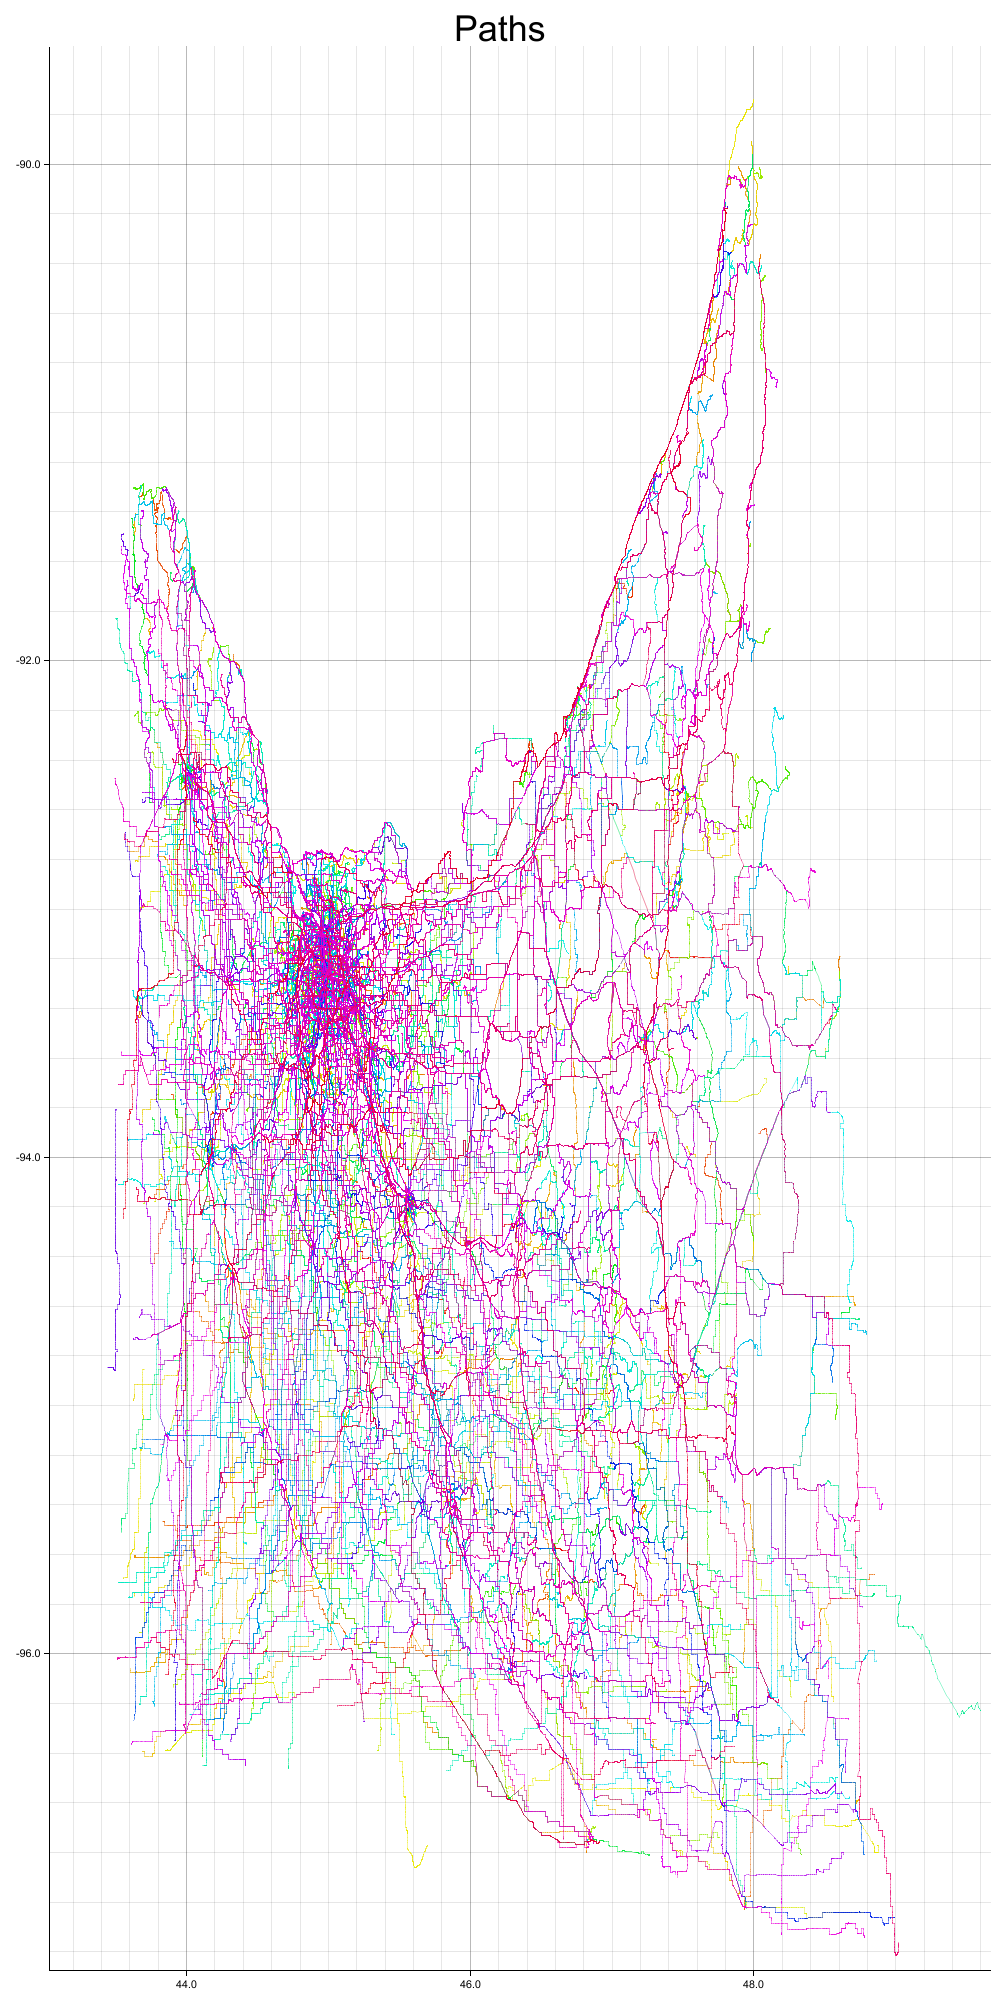
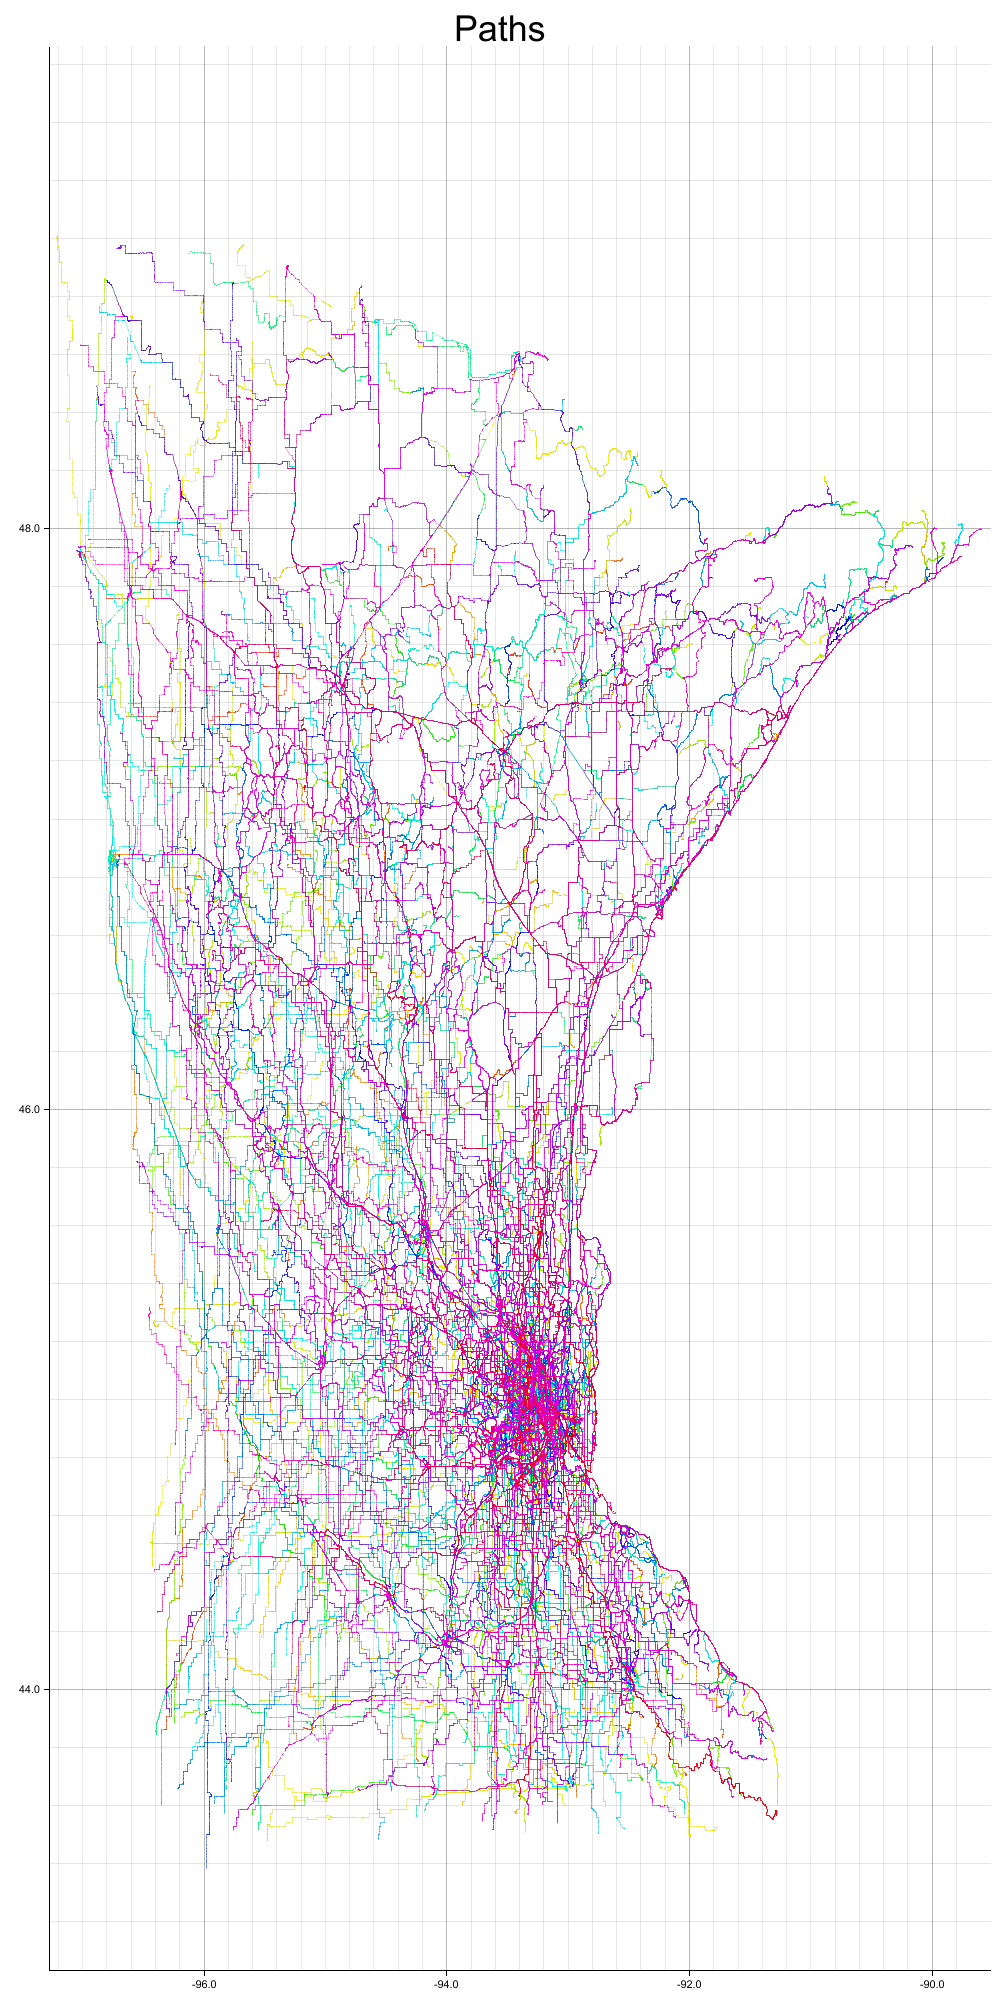
fix lat, lon inversion issue

diff --git a/src/main.rs b/src/main.rs
@@ -12,17 +12,18 @@ use crate::a_star::Path;
 use crate::bidirectional::bi_astar::a_star_bi;
 use crate::bounds::{Boundable, Bounds};
 use crate::osm_parser::OpenStreetMap;
-use crate::utils::parse_pre_generated;
 
 mod osm_parser;
 mod a_star;
 mod compact_array;
 mod bounds;
-mod utils;
 mod bidirectional;
 
 fn main() -> Result<(), Box<dyn std::error::Error>> {
-    let map = parse_pre_generated()?;
+    // let map = OpenStreetMap::parse("minnesota-latest.osm.pbf")?;
+    // let map = map.trim(); // to prevent unsolvable paths
+    // map.save("map.save")?;
+    let map = OpenStreetMap::read_custom_file("map.save")?;
 
     let repeat = 1000;
 
@@ -71,7 +72,9 @@ fn main() -> Result<(), Box<dyn std::error::Error>> {
 }
 
 fn draw(map: &OpenStreetMap, paths: &[Path]) -> Result<(), Box<dyn std::error::Error>> {
-    let Bounds { from, to } = map.get_bounds();
+    let bounds = map.get_bounds();
+    println!("bounds {:?}", bounds);
+    let Bounds { from, to } = bounds;
 
     let root = BitMapBackend::new("5.png", (1000, 2000)).into_drawing_area();
     root.fill(&WHITE)?;

diff --git a/src/osm_parser.rs b/src/osm_parser.rs
@@ -322,7 +322,7 @@ impl OpenStreetMap {
             } {
                 if valid.contains(&id) {
                     id_to_idx.insert(id, idx_to_node.len() as u32);
-                    let location = Location(lat, lon);
+                    let location = Location(lon, lat);
                     let to_insert = Node {
                         location,
                         connected: CompactVec::empty(),

diff --git a/src/bounds.rs b/src/bounds.rs
@@ -1,6 +1,7 @@
 use crate::osm_parser::{Location, OpenStreetMap};
 use crate::a_star::Path;
 
+#[derive(Debug)]
 pub struct Bounds {
     pub from: Location,
     pub to: Location
